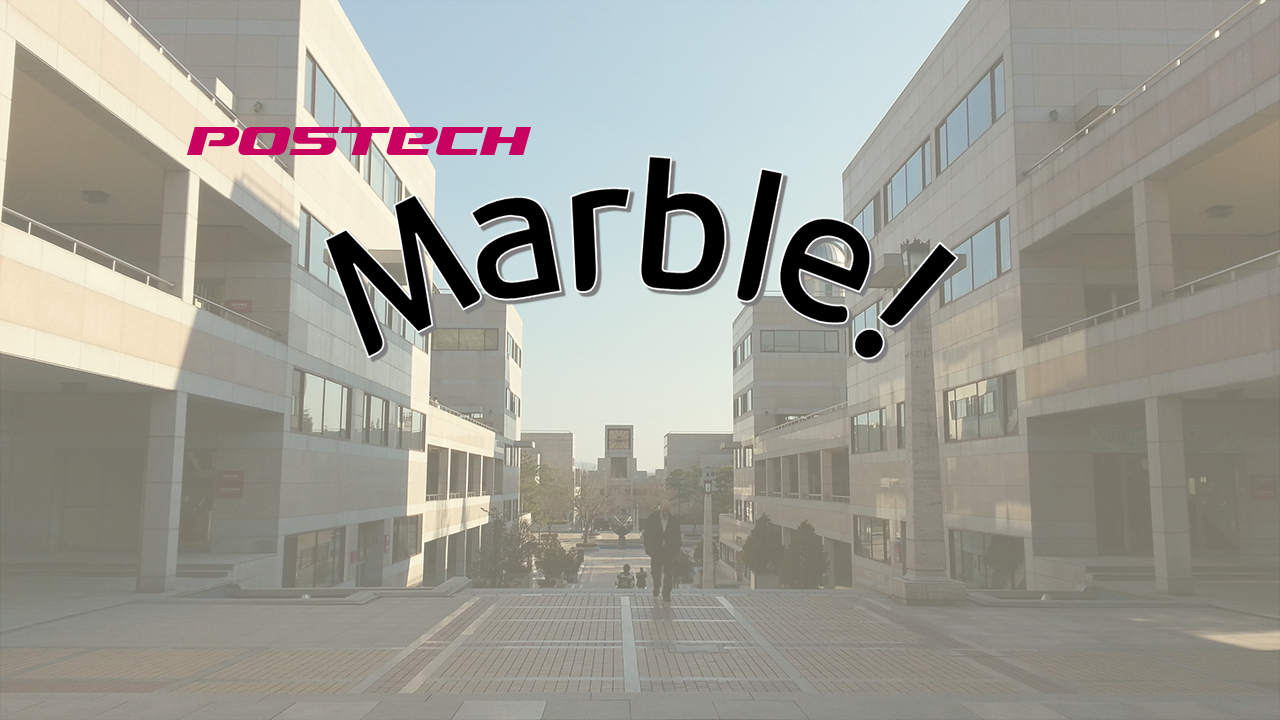
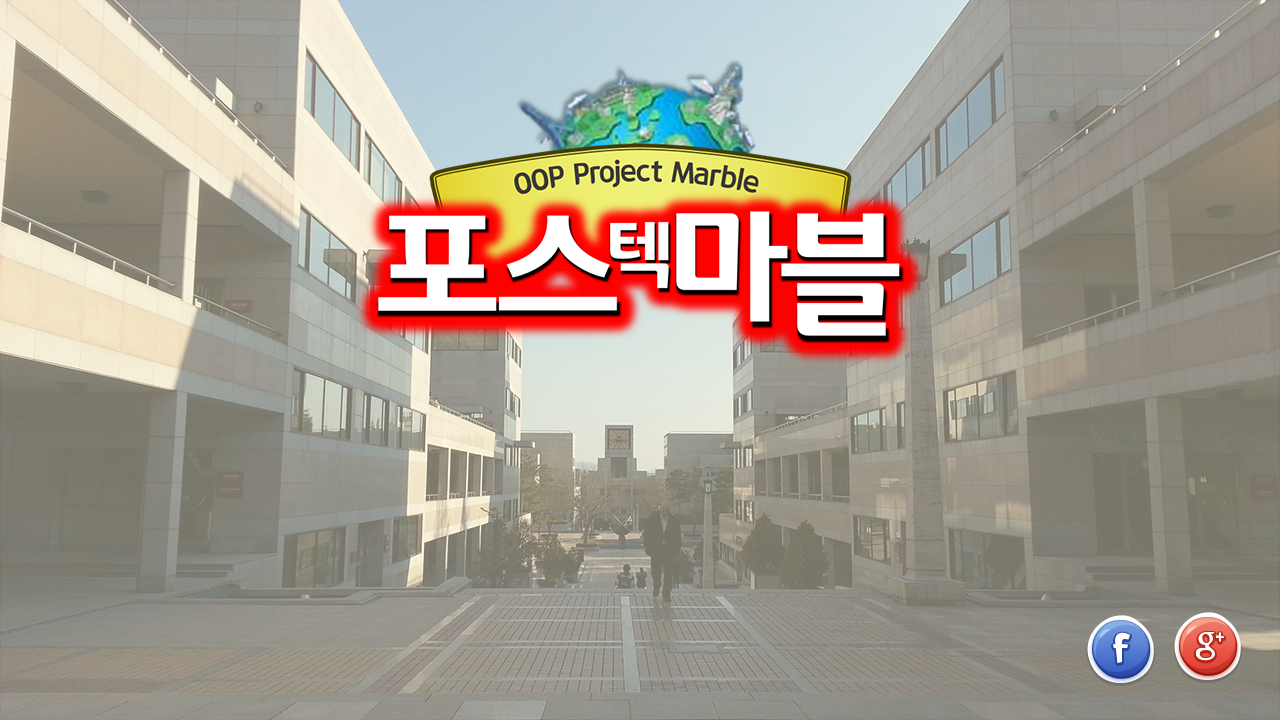
mainscene : AMAZING MAINSCENE graphics!!!

Changed region(s): [[0.125, 0.0917, 0.75, 0.5194], [0.8438, 0.8556, 0.9688, 0.9472]]

diff --git a/src/client/scene/mainscene.cpp b/src/client/scene/mainscene.cpp
@@ -43,10 +43,10 @@ void MainScene::setupMain()
 
     // set buttons
     start_button = new StartButton(this, window);
-    start_button->setPos(535,500);
+    start_button->setPos(535,430);
 
     credit_button = new CreditButton(this, window);
-    credit_button->setPos(535,590);
+    credit_button->setPos(535,520);
 
     gplus_button = new QGameItem(this, window);
     gplus_button->setImage(":images/main/social_g+.png");
